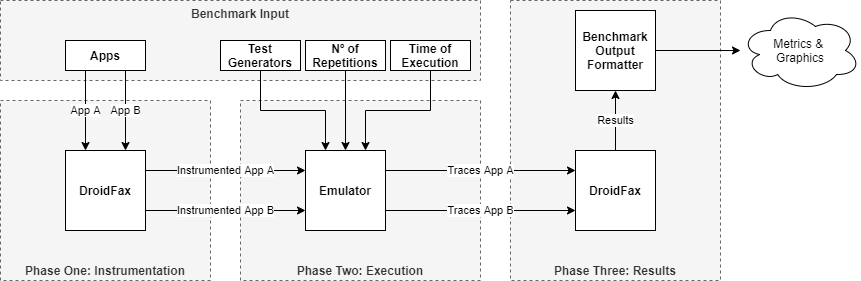
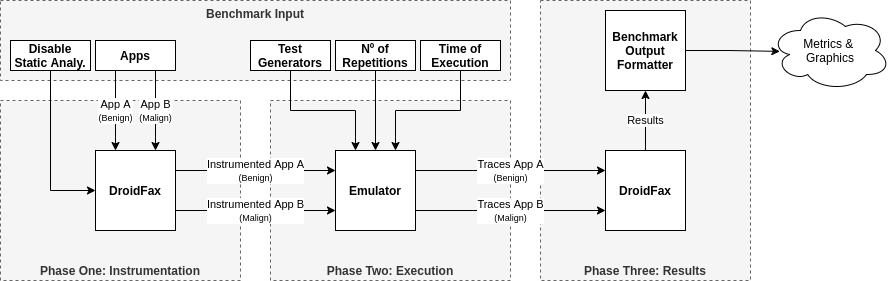
Improve README file and design image.

diff --git a/README.md b/README.md
@@ -5,10 +5,17 @@ Simplifying the comparison of existing tools for mining android sandboxes.
 ## Summary
 
 - [Description](#description)
+- [Architecture](#architecture)
 - [Dependencies](#dependencies)
+  - [Instalation Scripts](#instalation-scripts)
 - [How to run](#how-to-run)
+  - [How to run with arguments](#how-to-run-with-arguments)
 - [How to add your tool](#how-to-add-your-tool)
 - [Tool Specific Dependencies](#tool-specific-dependencies)
+  - [Droidbot](#droidbot)
+  - [Droidmate](#droidmate)
+  - [Humanoid](#humanoid)
+  - [Sapienz](#sapienz)
 
 ## Description
 
@@ -48,9 +55,14 @@ This project depends on:
 - Python 2 or 3
 - Pixel 2 android emulator
 
-It's assumed that some commands are in your PATH environment variable: `adb`, `java`, `jarsigner`, `emulator` and `aapt`.
+It's assumed that some commands are in your PATH environment variable: `adb`, `java`, `jarsigner`,
+`emulator` and `aapt`.
 
-Installation scripts can be found in [droidxp/benchmark-vm](https://github.com/droidxp/benchmark-vm)
+### Instalation Scripts
+
+Installation scripts can be found in [droidxp/benchmark-vm](https://github.com/droidxp/benchmark-vm).
+Each folder contains a `config.sh` script that will install this project's dependencies on the OS
+identified by the respective folder's name.
 
 ## How to run
 To install the project dependencies:
@@ -61,7 +73,7 @@ To run the benchmark, execute the following command:
 
     python main.py
     
-## How to run with arguments
+### How to run with arguments
 
 The benchmark controll arguments follows:
 
